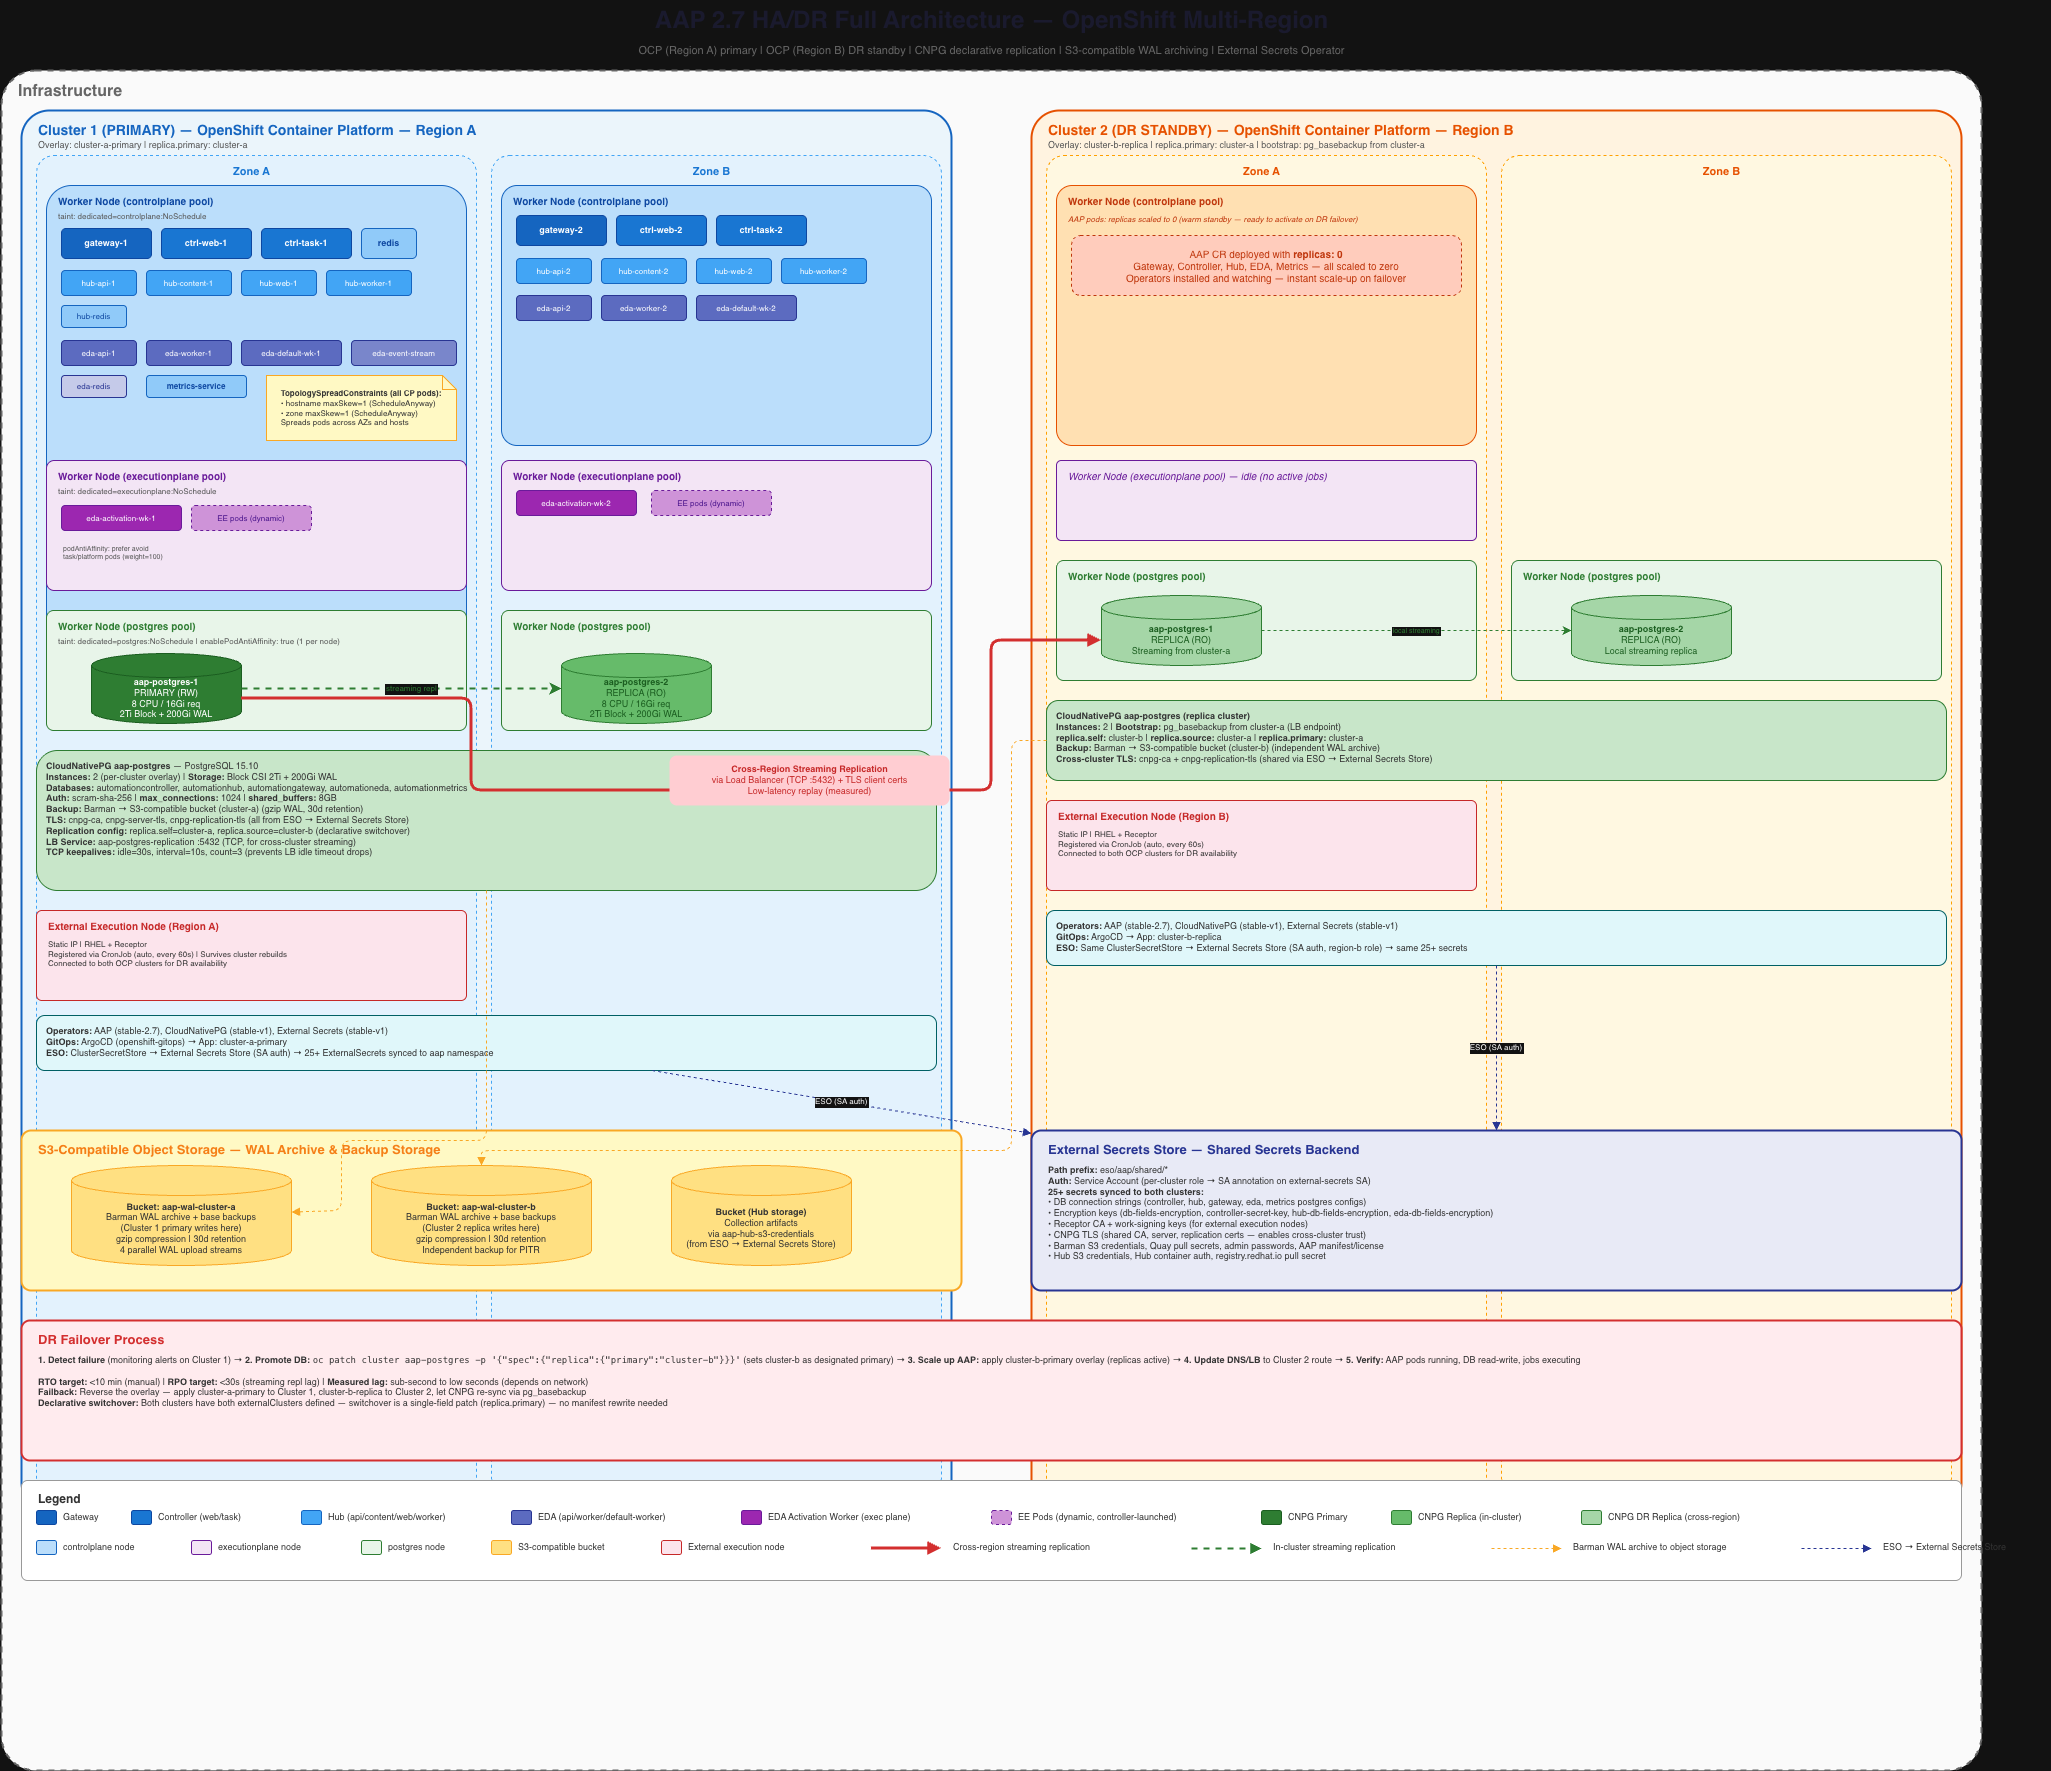
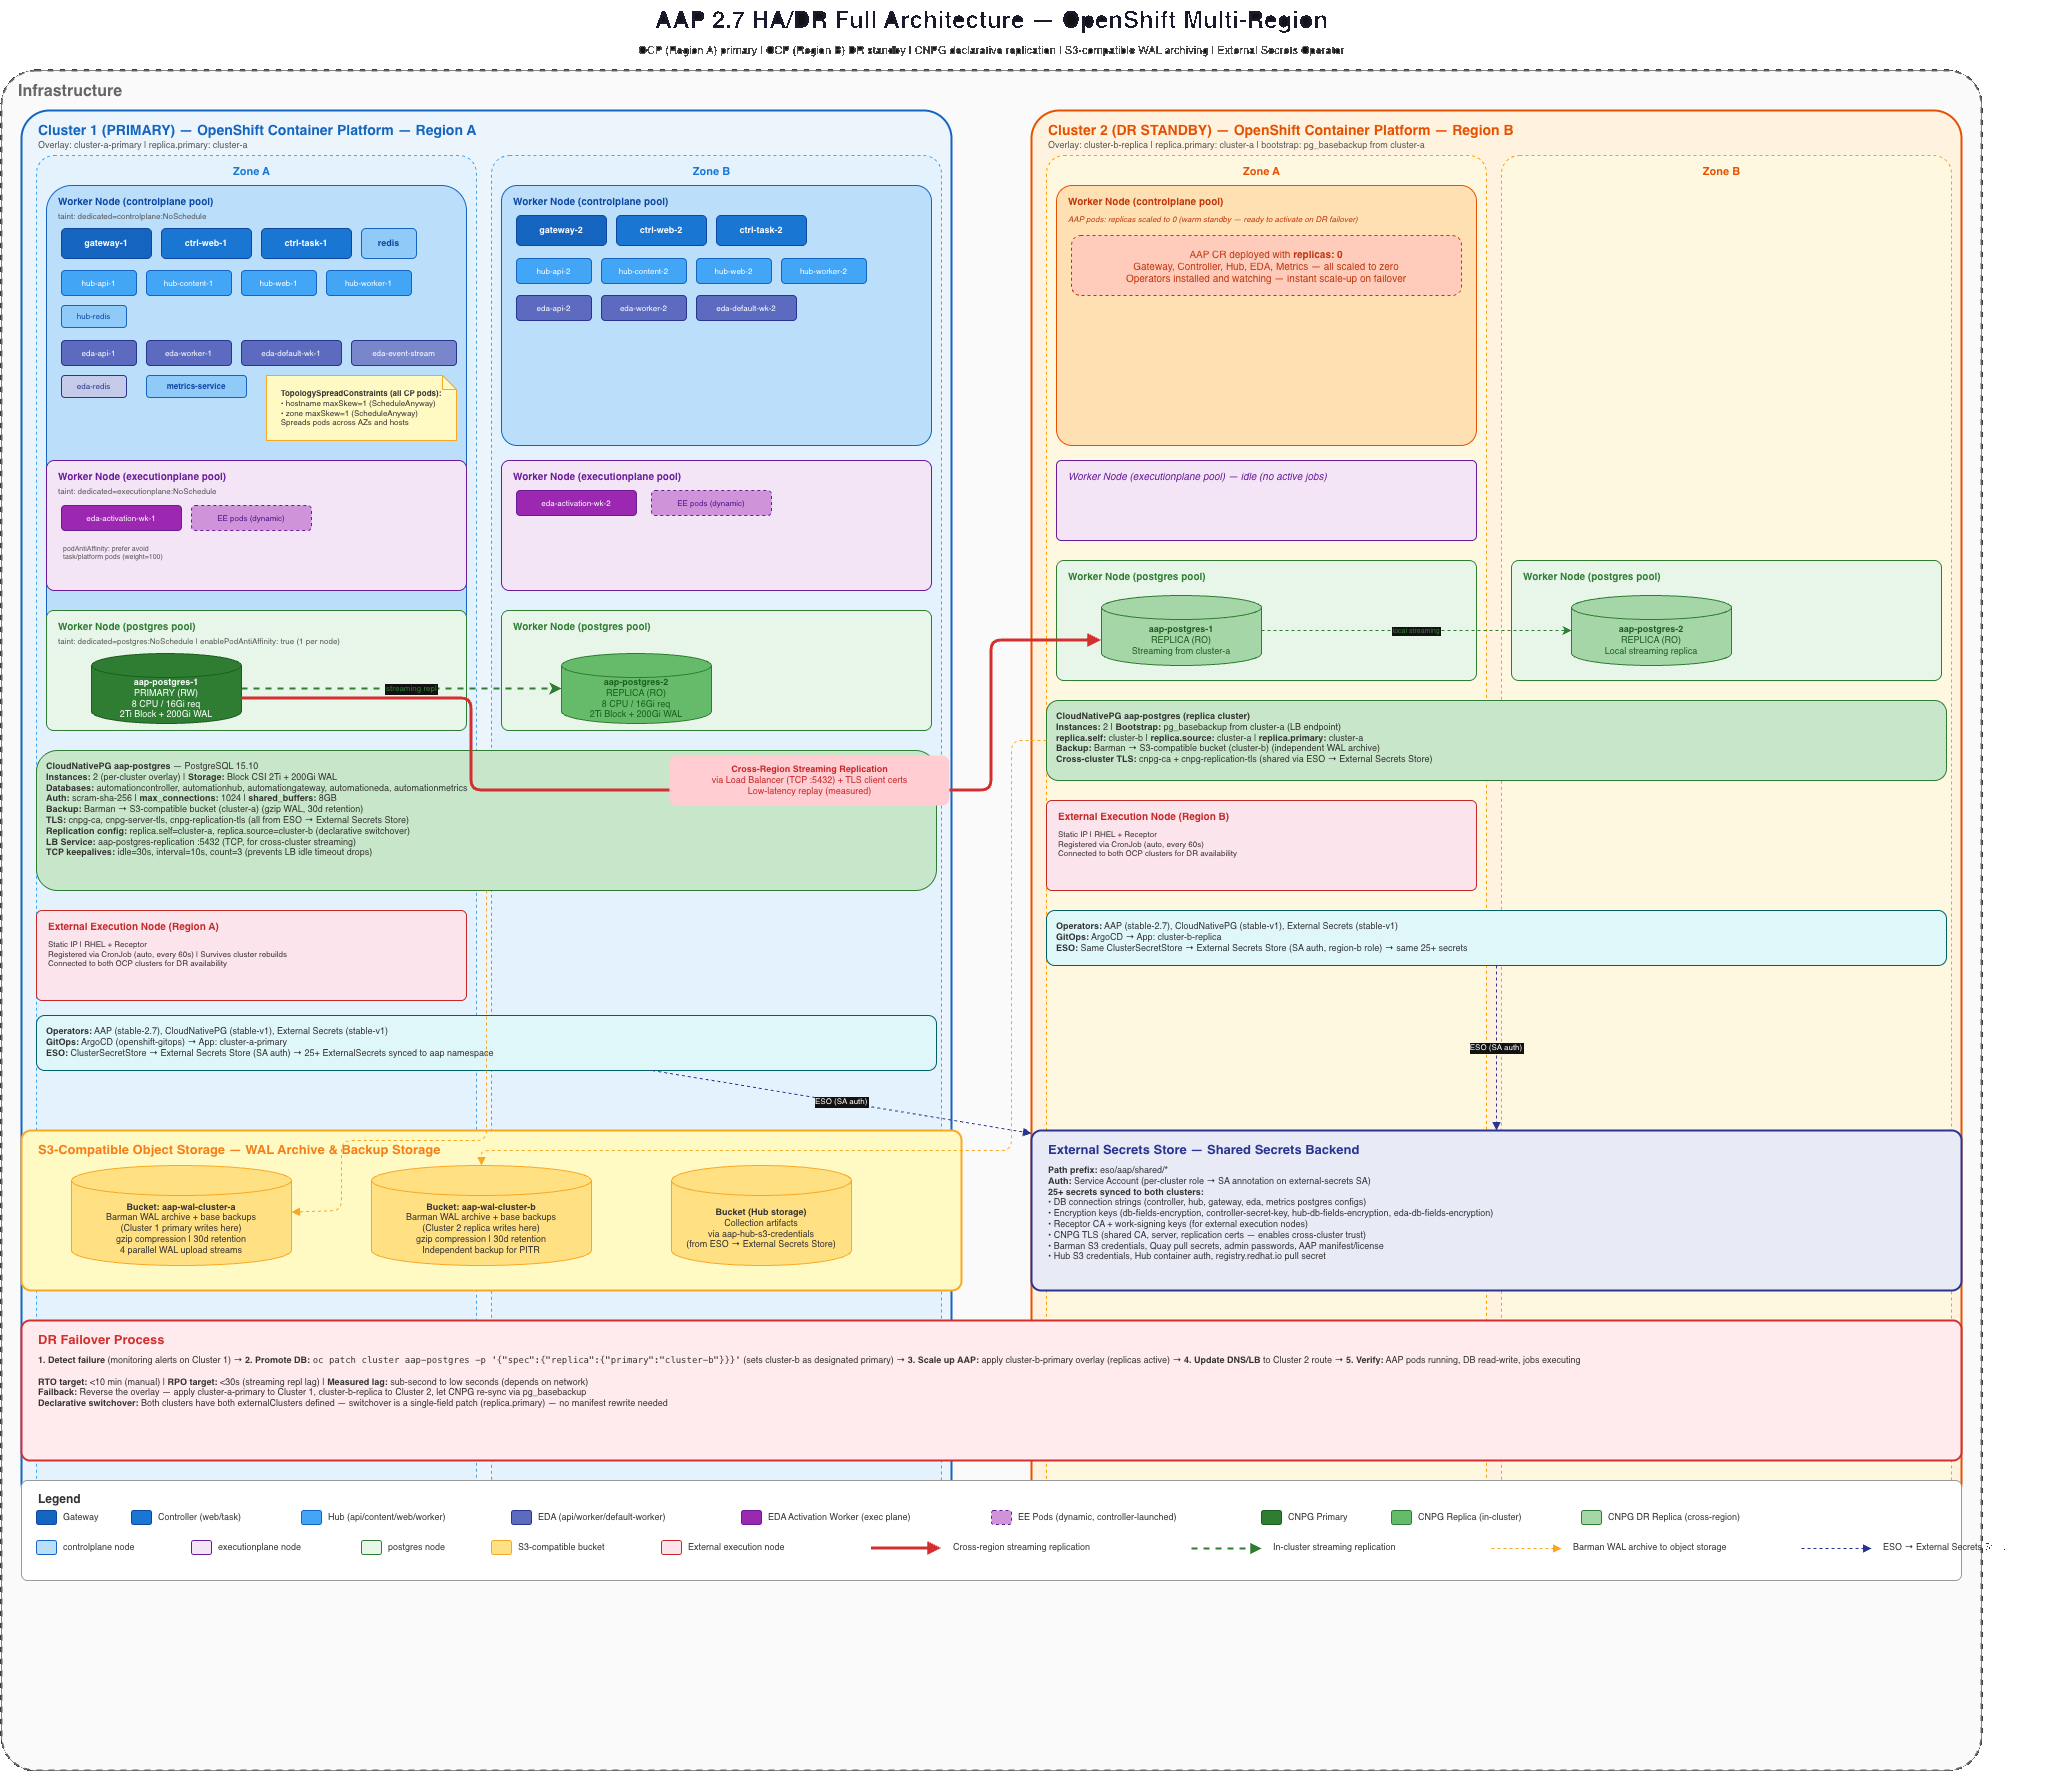
Refine HA/DR guide walkthrough numbering, diagram, and SLA table
Renumber walkthrough steps from 1, make the architecture PNG background transparent, and add validated failure scenarios with observed recovery times.

Changed region(s): [[0.0, 0.0, 1.0, 1.0], [0.0, 0.9938, 0.0312, 1.0]]

diff --git a/README-AAP-HA-DR-OpenShift.md b/README-AAP-HA-DR-OpenShift.md
@@ -23,13 +23,14 @@ This implementation guide shows how to deploy **AAP 2.7 (operator-based) on two 
 - [Prerequisites](#prerequisites)
 - [HA/DR Architecture](#hadr-architecture)
 - [Solution Walkthrough](#solution-walkthrough)
-  - [Install the Operators](#2-install-the-operators)
-  - [Configure External Secrets](#3-configure-external-secrets)
-  - [Deploy the CloudNativePG Cluster](#4-deploy-the-cloudnativepg-cluster)
-  - [Deploy AAP](#5-deploy-aap)
-  - [Failover Procedures](#7-failover-procedures)
+  - [Install the Operators](#1-install-the-operators)
+  - [Configure External Secrets](#2-configure-external-secrets)
+  - [Deploy the CloudNativePG Cluster](#3-deploy-the-cloudnativepg-cluster)
+  - [Deploy AAP](#4-deploy-aap)
+  - [Failover Procedures](#6-failover-procedures)
 - [Validation](#validation)
-- [Day 2 Operations](#9-day-2-operations)
+- [Validated Test Scenarios and Observed SLAs](#validated-test-scenarios-and-observed-slas)
+- [Day 2 Operations](#8-day-2-operations)
 - [Known Issues](#known-issues)
 - [Maturity Path](#maturity-path)
 - [Related Guides](#related-guides)
@@ -240,11 +241,11 @@ Each cluster needs three types of worker nodes. Use MachineSet/MachinePool to cr
 
 ## Solution Walkthrough
 
-## 2. Install the Operators
+## 1. Install the Operators
 
 Three operators are required on each cluster. Install them via Subscription CRs (or through the OperatorHub UI).
 
-### 2.1 AAP Operator
+### 1.1 AAP Operator
 
 ```yaml
 apiVersion: v1
@@ -276,7 +277,7 @@ spec:
 
 **User action:** Change source to match your catalog source. For pre-release testing, point to a custom CatalogSource.
 
-### 2.2 CloudNativePG Operator
+### 1.2 CloudNativePG Operator
 
 ```yaml
 apiVersion: operators.coreos.com/v1alpha1
@@ -292,7 +293,7 @@ spec:
   installPlanApproval: Automatic
 ```
 
-### 2.3 External Secrets Operator
+### 1.3 External Secrets Operator
 
 ```yaml
 apiVersion: v1
@@ -345,11 +346,11 @@ oc get csv -n aap
 oc get csv -n external-secrets-operator
 ```
 
-## 3. Configure External Secrets
+## 2. Configure External Secrets
 
 Before deploying any workloads, configure ESO to sync secrets from your central store to both clusters.
 
-### 3.1 ClusterSecretStore
+### 2.1 ClusterSecretStore
 
 Create a ClusterSecretStore that points to your secrets backend. This example uses AWS Secrets Manager with IRSA authentication:
 
@@ -378,7 +379,7 @@ oc annotate sa external-secrets -n external-secrets \
   eks.amazonaws.com/role-arn=arn:aws:iam::ACCOUNT:role/YOUR-ESO-ROLE
 ```
 
-### 3.2 Required Secrets
+### 2.2 Required Secrets
 
 The following secrets must exist in your secrets store. All ExternalSecret CRs reference the ClusterSecretStore created above.
 
@@ -471,7 +472,7 @@ Cross-cluster streaming replication requires mutual TLS. Generate a CA and per-c
 | aap-manifest | AAP subscription manifest (manifest.zip) |
 | Image pull secret(s) | Pull secrets for your container registry |
 
-### 3.3 ExternalSecret CRs
+### 2.3 ExternalSecret CRs
 
 Create an ExternalSecret for each secret. Example pattern:
 
@@ -532,9 +533,9 @@ oc get externalsecrets -n aap
 # All should show Status: SecretSynced
 ```
 
-## 4. Deploy the CloudNativePG Cluster
+## 3. Deploy the CloudNativePG Cluster
 
-### 4.1 Primary Cluster (Cluster A)
+### 3.1 Primary Cluster (Cluster A)
 
 ```yaml
 apiVersion: postgresql.cnpg.io/v1
@@ -750,7 +751,7 @@ spec:
 **User action:** Replace all `<!-- your ... -->` style comments and YOUR-* placeholders with your actual values.
 **Important:** The bootstrap section is **immutable** after first creation. To change it, you must delete and recreate the cluster.
 
-### 4.2 Replication Load Balancer Service
+### 3.2 Replication Load Balancer Service
 
 Each cluster needs a LoadBalancer Service exposing the CNPG primary on port 5432 so the other cluster can stream from it:
 
@@ -778,7 +779,7 @@ spec:
 
 After this Service is created, note the load balancer hostname (`oc get svc aap-postgres-replication -n aap`) and use it as the connectionParameters.host in the externalClusters entries on the *other* cluster.
 
-### 4.3 DR Cluster (Cluster B)
+### 3.3 DR Cluster (Cluster B)
 
 Cluster B's CNPG Cluster CR is nearly identical to Cluster A, with two differences:
 Bootstrap from Cluster A (instead of initdb):
@@ -800,7 +801,7 @@ replica:
 
 Everything else (storage, resources, certificates, externalClusters, backup, affinity) stays the same, with Cluster B's own S3 bucket and load balancer hostname.
 
-### 4.4 Verify Replication
+### 3.4 Verify Replication
 
 ```bash
 # On Cluster A -- check cluster status
@@ -814,9 +815,9 @@ oc get cluster aap-postgres -n aap
 oc exec -n aap aap-postgres-1 -- psql -c "SELECT * FROM pg_stat_replication;"
 ```
 
-## 5. Deploy AAP
+## 4. Deploy AAP
 
-### 5.1 The AnsibleAutomationPlatform CR
+### 4.1 The AnsibleAutomationPlatform CR
 
 This is the core CR that defines the entire AAP deployment. Apply this on **both clusters**, with the idle_aap field controlling which one is active.
 
@@ -1118,7 +1119,7 @@ spec:
 * postgres_admin_secret -- required for the metrics service workaround (see Known Issues)
 * Resource requests should be tuned to your workload
 
-### 5.2 DR Standby Cluster
+### 4.2 DR Standby Cluster
 
 On the DR standby cluster, apply the same CR with these changes:
 
@@ -1134,7 +1135,7 @@ spec:
 
 When idle_aap: true, the operator sets all component replicas to 0 but keeps the CR and operator in place, ready for instant activation.
 
-### 5.3 Verify Deployment
+### 4.3 Verify Deployment
 
 ```bash
 # Check all pods are running
@@ -1147,7 +1148,7 @@ oc get ansibleautomationplatform aap -n aap -o yaml | grep -A10 status
 curl -sk https://aap.example.com/api/gateway/v1/status/
 ```
 
-## 6. Component Replica and Scheduling Summary
+## 5. Component Replica and Scheduling Summary
 
 | Component | Replicas | Node Pool | Topology Spread | Anti-Affinity |
 | :---- | :---- | :---- | :---- | :---- |
@@ -1161,9 +1162,9 @@ curl -sk https://aap.example.com/api/gateway/v1/status/
 | CNPG PostgreSQL | 3 | postgres | zone (maxSkew=1) | enablePodAntiAffinity: true (1/node) |
 | Redis (platform + hub + eda) | 1 each | controlplane | -- | -- |
 
-## 7. Failover Procedures
+## 6. Failover Procedures
 
-### 7.1 Planned Switchover (Controlled)
+### 6.1 Planned Switchover (Controlled)
 
 Use this procedure for scheduled maintenance or DR testing when **both clusters are healthy and reachable**.
 Before you begin:
@@ -1251,7 +1252,7 @@ oc --context=<cluster-b-context> get pods -n aap
 curl -sk https://aap.example.com/api/gateway/v1/status/?format=json
 ```
 
-### 7.2 Disaster Recovery (Emergency Failover)
+### 6.2 Disaster Recovery (Emergency Failover)
 
 Use this procedure only when the old primary site is **unreachable or unusable**. This is an uncontrolled failover because no demotion token is available.
 Before you begin:
@@ -1292,7 +1293,7 @@ curl -sk https://aap.example.com/api/gateway/v1/status/?format=json
 **RTO:** Typically minutes, depending on operator reconciliation, AAP startup time, and DNS/GSLB propagation.
 **Important:** After an emergency failover, do not allow the old primary site to resume replication without rebuilding it from the new primary. The old timeline is no longer authoritative.
 
-### 7.3 Failback
+### 6.3 Failback
 
 Failback depends on how the active role moved in the first place.
 **If the active role moved via a controlled switchover:**
@@ -1314,7 +1315,7 @@ bootstrap:
     source: cluster-b
 ```
 
-## 8. What the User Must Provide
+## 7. What the User Must Provide
 
 This section summarizes everything that must be customized for your environment. Nothing in the CRs above works as-is without filling in these values.
 
@@ -1358,7 +1359,7 @@ This section summarizes everything that must be customized for your environment.
 | Storage class names | CNPG Cluster CR | Your cluster's SSD storage class |
 | Resource requests/limits | Both CRs | Tuned to your node sizes and workload |
 
-## 9. Day 2 Operations
+## 8. Day 2 Operations
 
 ### Backup and Restore
 
@@ -1405,7 +1406,7 @@ oc annotate cluster aap-postgres -n aap \
   kubectl.kubernetes.io/restartedAt="$(date -u +%Y-%m-%dT%H:%M:%SZ)"
 ```
 
-## 10. Monitoring
+## 9. Monitoring
 
 ### Recommended Monitoring Stack
 
@@ -1508,7 +1509,7 @@ oc --context=<active-context> get pods -n aap
 curl -sk "https://aap.example.com/api/gateway/v1/status/?format=json"
 ```
 
-For a controlled switchover rehearsal, follow [7.1 Planned Switchover](#71-planned-switchover-controlled), then re-run the same checks on the new primary.
+For a controlled switchover rehearsal, follow [6.1 Planned Switchover](#61-planned-switchover-controlled), then re-run the same checks on the new primary.
 
 ### Expected Result
 
@@ -1533,6 +1534,29 @@ Example status check (shape varies by version):
 | Login fails after switchover | Stale gateway OAuth2 secret | Delete `aap-gateway-oauth2-token-secret` on the new primary and let the operator recreate it |
 | Metrics service will not reconcile | External Postgres admin secret not passed through | Apply the Known Issues workaround for `postgres-admin-credentials` |
 | Replication not Streaming on Cluster B | NLB hostname, mTLS certs, or `streaming_replica` password mismatch | Verify `externalClusters` connectionParameters, shared CA, and replication TLS secrets |
+
+## Validated Test Scenarios and Observed SLAs
+
+The following scenarios were executed against this architecture and **passed** for the outcomes described below. Times are **observed averages rounded to the nearest second** -- use them to set recovery expectations, not as contractual SLAs. Environment sizing, node `tolerationSeconds`, DNS/GSLB behavior, and workload mix will change results.
+
+| Test type | Scenario | Failure and recovery expectation | Observed SLA |
+|-----------|----------|----------------------------------|--------------|
+| Pod recovery | Hub API pod failure during active sessions / collection sync | Surviving Hub replicas continue serving; failed pod restarts; sessions re-auth as needed; no Hub DB data loss | **59 seconds** average recovery |
+| Pod recovery | Hub Worker pod failure during content operations | Worker restarts; collection sync continues after restart | **8 seconds** average recovery |
+| Pod recovery | Gateway pod failure under active API traffic | Surviving gateway replicas absorb traffic; brief 503s during the fault window; automatic recovery | **38 seconds** average recovery |
+| Pod recovery | EDA activation-worker pod failure while processing events | Worker restarts; event processing resumes on the restarted pod | **6 seconds** average recovery; events not captured during failure |
+| Cache recovery | Gateway or Hub Redis pod failure | Gateway falls back to non-cached auth without permanent auth failures; Hub continues serving on cache miss; no split-brain after Redis returns | Degraded latency during outage |
+| DB failover | CNPG primary pod failure under load | Local replica promoted; Controller reconnects; queued jobs retained; no duplicate dispatch; short jobs see transient impact, long jobs largely unaffected | **33 seconds** average until CNPG Ready; **44 seconds** average Controller reconnect |
+| Node failure | Single worker node failure ( control / execution planes) | Pods reschedule to surviving nodes/AZs; gateway continues via surviving replicas; zero data loss for control-plane sessions | **~7 minutes** average controller-task Ready (dominated by node `tolerationSeconds`, often 300s minimum) |
+| Node failure | Full availability-zone outage | Workloads reschedule to the surviving AZ; platform remains usable when anti-affinity spreads replicas across AZs | **~5 minutes** average until pods ready with minimal user disruption |
+| Network failure | Partition between AAP pods and the database | No split-brain; platform recovers when connectivity returns; job dispatch resumes | **~4 minutes** recovery after a ~90 second full partition (job launcher / SLO recovery often longer than DB reconnect alone) |
+| Network failure | Partition on the Receptor / execution-node path | In-flight ansible-runner jobs continue locally; new dispatch pauses; on reconnect, orphaned jobs are marked failed and can be re-run; Receptor backs off and reconnects | Automatic reconnect (backoff up to ~5 minutes); **no duplicate dispatch** observed |
+| Network failure | Gateway network isolation | Cached JWT allows brief continued auth; after cache expiry downstream auth fails; restore of network recovers auth without manual intervention for core platform | Automatic recovery after network restore |
+| Full region DR | Cross-region failover, in-flight job handling, and failback | Force-promote standby DB; activate idle AAP; users login and dispatch; surviving exec-node jobs complete; failback re-establishes replication and re-idles the former DR site | **11 seconds** average DB force-promote; **79 seconds** average until DR control plane responds |
+
+> **Tip:** Treat node and AZ times as infrastructure-bound.
+>
+> OpenShift eviction and `tolerationSeconds` often set a floor (commonly ~5 minutes) before pods reschedule. Tune those values if your RTO target for node/AZ loss is tighter than the averages above.
 
 ## Maturity Path
 